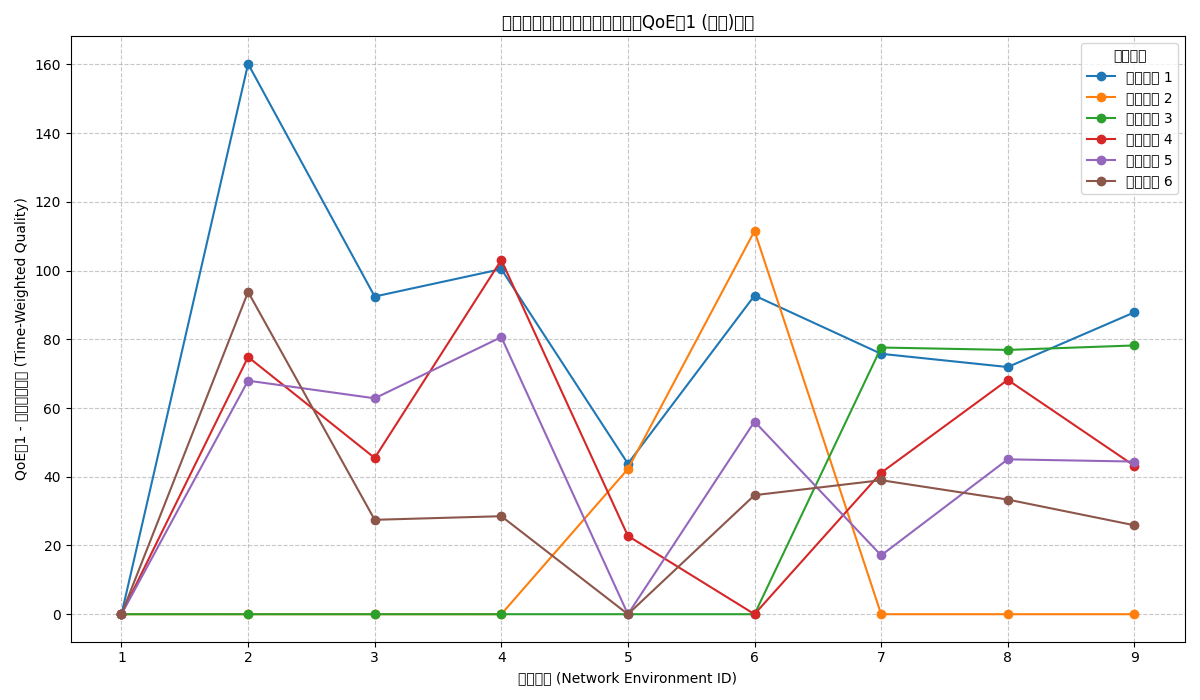
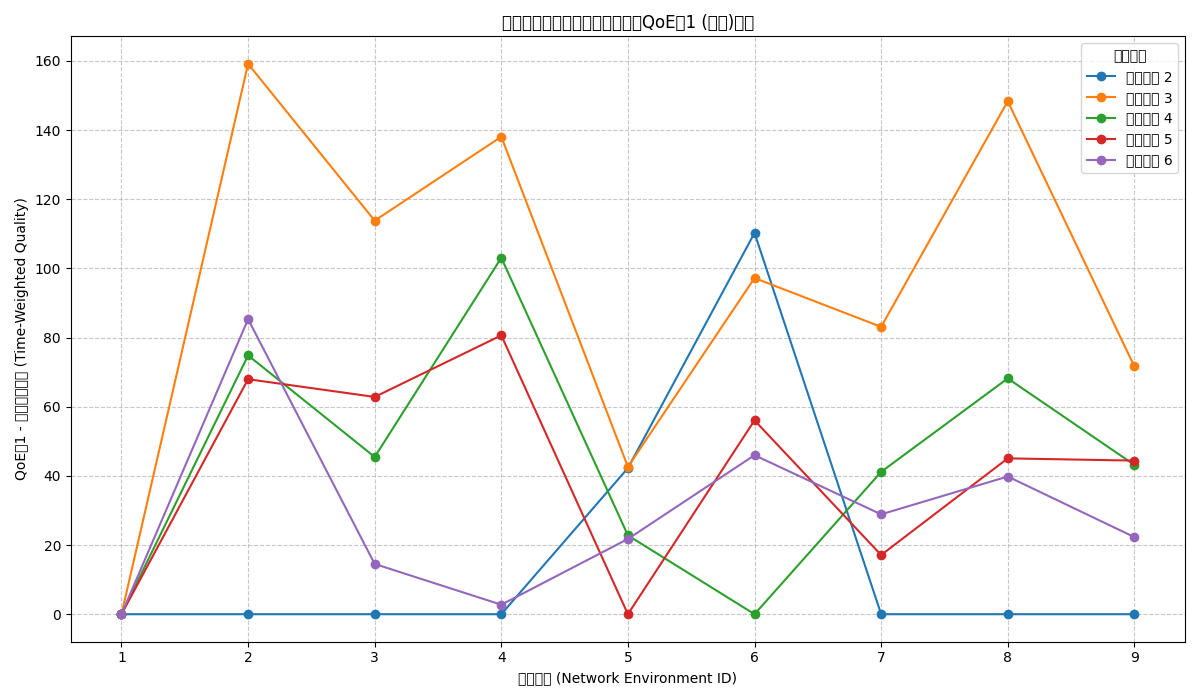
Update plots & fix bug

diff --git a/src/plot.py b/src/plot.py
@@ -7,7 +7,7 @@ import numpy as np # 用于处理可能的NaN值
 # --- 配置区域 ---
 RESULTS_BASE_DIR = "./test_old"  # 存放 case_{a}_{b} 文件夹的基础目录
 # 决策方法 a 的范围 (假设是 1 到 7)
-DECISION_METHODS = list(range(1, 7)) # [1, 2, 3, 4, 5, 6, 7]
+DECISION_METHODS = list(range(2, 7)) # [1, 2, 3, 4, 5, 6, 7]
 # 网络环境 b 的范围 (假设是 1 到 9)
 NETWORK_ENVIRONMENTS = list(range(1, 9 + 1)) # [1, 2, ..., 9]
 # 图表保存目录
@@ -50,7 +50,7 @@ for method_id in DECISION_METHODS:
                         "term1_quality": term1,
                         "term2_rebuffering": term2,
                         "term3_switching": term3,
-                        "final_qoe_score": term1 - (term2 / 2.8 * 3.5) - term3 * 0.8,
+                        "final_qoe_score": term1 - (term2 / 2.8 * 5) - term3 * 1,
                         # 你也可以在这里提取其他你感兴趣的指标，如：
                         # "avg_bitrate_kbps": float(data.get("average_played_bitrate_kbps", "").replace(" Kbps", "") if isinstance(data.get("average_played_bitrate_kbps"), str) else data.get("average_played_bitrate_kbps", np.nan)),
                         # "rebuffering_ratio_percent": float(data.get("rebuffering_ratio", "").replace("%", "") if isinstance(data.get("rebuffering_ratio"), str) else data.get("rebuffering_ratio", np.nan)),

diff --git a/src/ABR.py b/src/ABR.py
@@ -575,9 +575,10 @@ class ABRManager:
                 if self.ewma_bandwidth_bps == 0.0:
                     self.ewma_bandwidth_bps = throughput_bps
                 else:
-                    term1 = self.ewma_alpha * throughput_bps
-                    term2_factor = (1 - self.ewma_alpha)
-                    term2 = term2_factor * self.ewma_bandwidth_bps
+                    self.ewma_bandwidth_bps = self.ewma_alpha * throughput_bps + \
+                                              (1 - self.ewma_alpha) * self.ewma_bandwidth_bps
+                                              
+                logger.debug(f"Updated Bandwidth Estimates: EWMA={self.ewma_bandwidth_bps/1e6:.2f} Mbps, SWMA={self.swma_bandwidth_bps/1e6:.2f} Mbps, LastSegThroughput={throughput_bps/1e6:.2f} Mbps")
                 
                 # 如果成功下载的是当前追踪的“卡住风险”分片，则重置相关状态
                 if url == self.current_segment_url_being_downloaded:

diff --git a/src/control.py b/src/control.py
@@ -19,13 +19,13 @@ if not logger.handlers: # 防止重复添加处理器
 # 定义不同的参数组合
 parameter_combinations = [
     # 例如: [决策逻辑类型, 网络环境场景]
-    [6, 9]
+    # [6, 3], [6, 5], [6, 6], [6, 8], [6, 9]
 ]
 
 # 生成参数组合 (决策逻辑 1-7, 网络环境 1-9)
-# for i in [6]:
-#     for j in range(1, 10):
-#         parameter_combinations.append([i, j])
+for i in [3]:
+    for j in range(1, 10):
+        parameter_combinations.append([i, j])
 
 # 用于跟踪当前正在运行的子进程
 current_process = None
